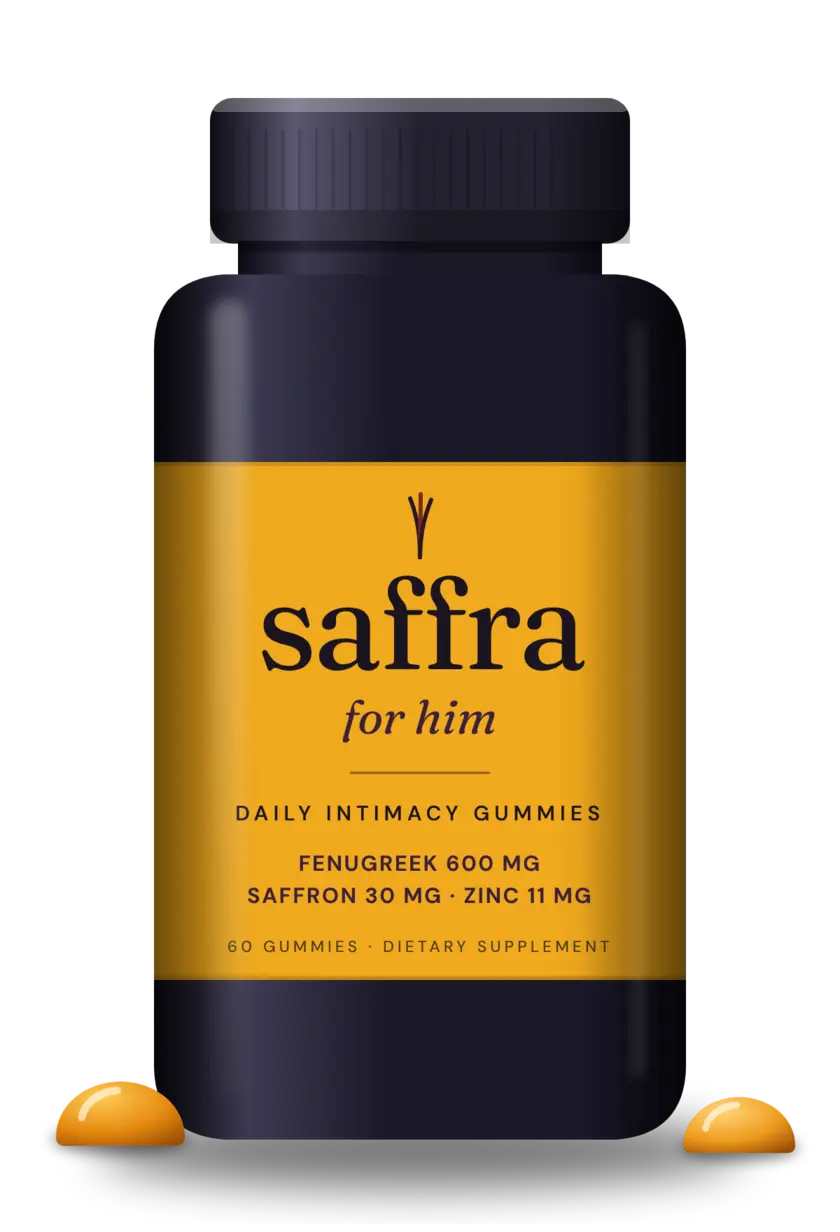
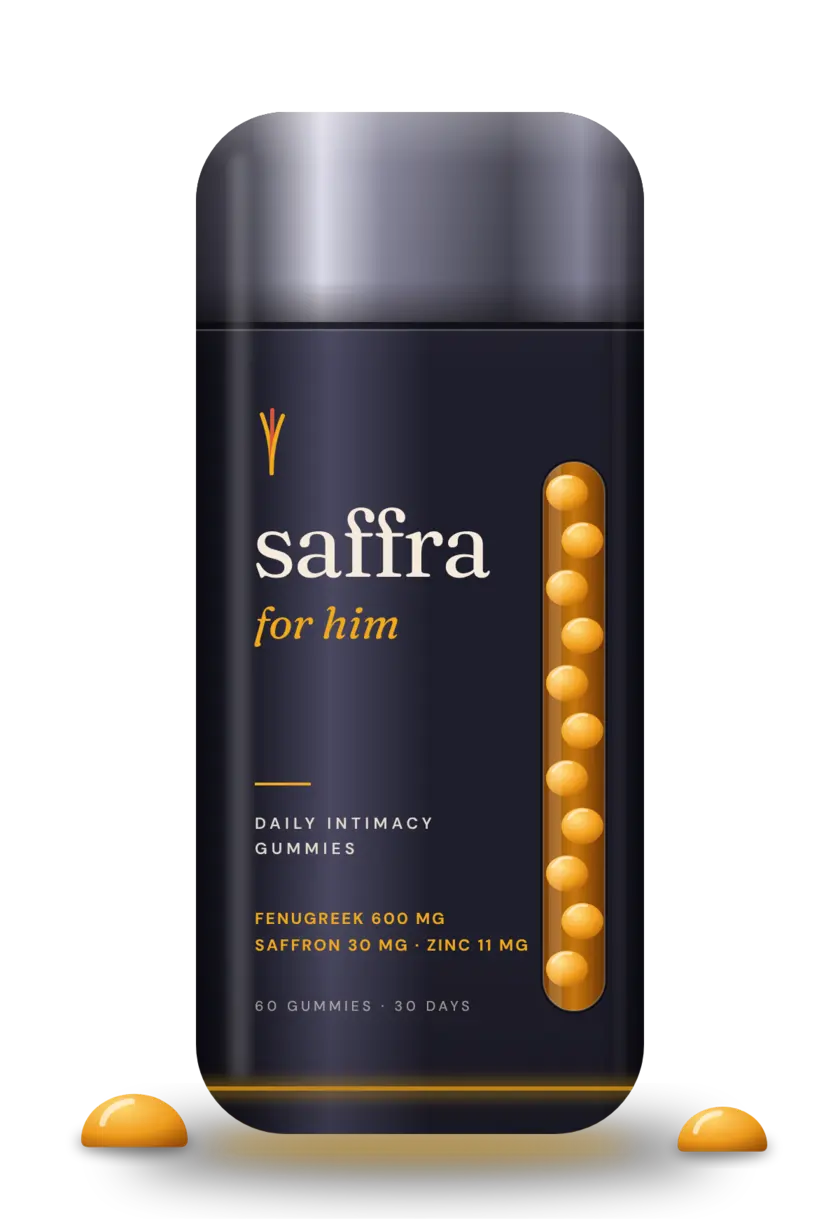
Redesign the bottles and add a mobile buy bar
New capsule-shaped jars with printed type, a gummy window and a saffron
base line. Product pages get a fixed buy bar on phones.

Claude-Session: https://claude.ai/code/session_015dDce3uLSXqt7HekCjqUxV

diff --git a/index.html b/index.html
@@ -350,6 +350,16 @@ details p{margin:0 0 18px}
   .sci td:nth-child(2){color:var(--saffron);font-weight:700}
   .sci td a{display:inline-block;padding:8px 0}
 }
+
+.buybar{display:none}
+@media (max-width:900px){
+  body[data-view="her"] .buybar.her,body[data-view="him"] .buybar.him{display:flex}
+  .buybar{position:fixed;left:0;right:0;bottom:0;z-index:18;background:rgba(42,20,41,.94);backdrop-filter:blur(14px);-webkit-backdrop-filter:blur(14px);border-top:1px solid rgba(255,255,255,.12);padding:10px 16px calc(10px + env(safe-area-inset-bottom,0px));align-items:center;justify-content:space-between;gap:12px}
+  .buybar b{font-family:var(--display);font-weight:400;font-size:18px;display:block;line-height:1.1}
+  .buybar small{color:var(--muted);font-size:13px}
+  body[data-view="her"] footer,body[data-view="him"] footer{padding-bottom:120px}
+  body[data-view="her"] .totop,body[data-view="him"] .totop{bottom:84px}
+}
 .cross{border-radius:var(--r);border:1px solid var(--saffron);background:linear-gradient(100deg,rgba(240,169,30,.18),rgba(240,169,30,.02) 60%),var(--plum-2);padding:28px;display:flex;gap:24px;align-items:center;justify-content:space-between;flex-wrap:wrap}
 @media (max-width:900px){
   .menu{display:inline-flex}
@@ -431,7 +441,7 @@ details p{margin:0 0 18px}
       </div>
       <div class="stars"><span><i></i>Doses on the label</span><span><i></i>Vegan pectin gummies</span><span><i></i>30-day money back</span></div>
     </div>
-    <div class="shot"><img src="img/duo.webp" width="1400" height="1208" alt="Rendering of two Saffra jars: For Her in plum with a cream label, For Him in dark slate with a saffron label"></div>
+    <div class="shot"><img src="img/duo.webp" width="1400" height="1232" alt="Rendering of two Saffra jars: For Her in matte plum with a gold cap, For Him in graphite with a steel cap, each with a window showing the gummies"></div>
   </div>
 </div>
 
@@ -1121,7 +1131,7 @@ details p{margin:0 0 18px}
       <div style="display:grid;gap:14px">
         <h3>Packaging</h3>
         <img src="img/duo-dark.jpg" width="1600" height="1200" alt="Rendering of the For Her and For Him jars" style="border-radius:var(--r)">
-        <p class="muted">For Her: plum jar, cream label, saffron lid. For Him: slate jar, saffron label, dark lid. Doses sit on the front of both.</p>
+        <p class="muted">One seamless capsule shape with no paper label. For Her: matte plum with a gold cap. For Him: graphite with a steel cap. Type is printed on the jar, a side window shows the gummies, and a saffron line marks the base. Doses sit on the front of both.</p>
       </div>
       <div>
         <h3 style="margin-bottom:14px">Color</h3>
@@ -1172,6 +1182,9 @@ details p{margin:0 0 18px}
     <p>Photography from Unsplash. Saffra and the Saffra logo are trademarks of Saffra. © 2027 Saffra. All rights reserved.</p>
   </div>
 </footer>
+
+<div class="buybar her"><div><b>Saffra for her</b><small><span data-sub="$36 a month" data-one="$44 one-time">$36 a month</span></small></div><a class="btn small" href="#waitlist" data-int="her">Join the waitlist</a></div>
+<div class="buybar him"><div><b>Saffra for him</b><small><span data-sub="$36 a month" data-one="$44 one-time">$36 a month</span></small></div><a class="btn small" href="#waitlist" data-int="him">Join the waitlist</a></div>
 <button class="iconbtn totop" type="button" id="totop" aria-label="Back to top">&#8593;</button>
 
 <script>
